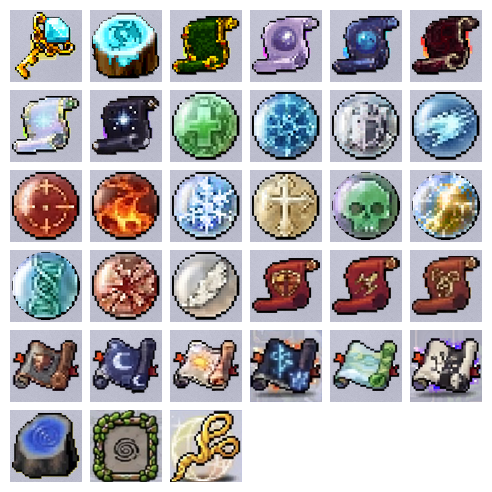
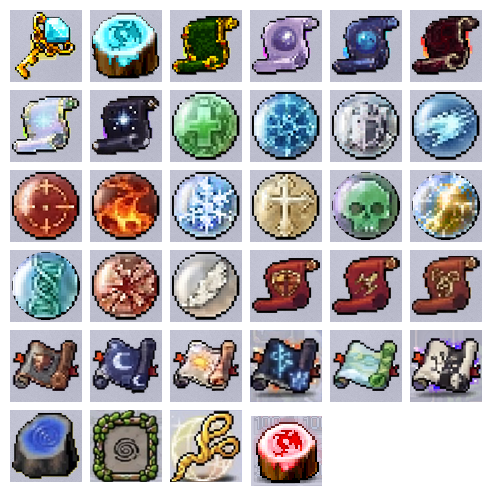
新石頭icon更新

Changed region(s): [[0.4878, 0.8232, 0.6707, 1.0]]

diff --git a/wiki/data/v0.11.0/currency.js b/wiki/data/v0.11.0/currency.js
@@ -1,2 +1,2 @@
 /* 內容同 currency.json（tools/check_data.py 自動產生），請勿手動修改 */
-window.LOOTANIA_CURRENCY = {"schema":1,"gameVersion":"LOOTANIA Beta v 0.11.0","updatedAt":"2026-10-27","items":[{"id":"cur-0001","name":"符文鑰匙","type":"鑰匙","description":"用於解鎖技能的最後一格符文欄位，每支符文鑰匙可以解鎖一格。","iconIndex":0,"source":"怪物掉落（40等以上）","note":""},{"id":"cur-0002","name":"瞬移之石(維多利亞島)","type":"瞬移之石","description":"開啟世界地圖，於地圖上選擇目的地後即可消耗瞬移之石進行傳送。\n僅能傳送到維多利亞島（含奇幻村、黃金海岸）範圍內的地圖。","iconIndex":1,"source":"怪物掉落（人物-5等級以上怪物及66級以上怪物無限制）","note":""},{"id":"cur-0003","name":"精良秘藏卷軸","type":"卷軸","description":"為普通或精良物品新增一條隨機秘藏能力。普通品階物品會先提升至精良品階。","iconIndex":2,"source":"怪物掉落","note":""},{"id":"cur-0004","name":"史詩變化卷軸","type":"卷軸","description":"將普通或精良物品變化為史詩裝備，原有的秘藏能力全部消失，重新獲得四條隨機秘藏能力。","iconIndex":3,"source":"怪物掉落","note":""},{"id":"cur-0005","name":"史詩秘藏卷軸","type":"卷軸","description":"為精良或史詩物品新增一條隨機秘藏能力。精良品階物品會先提升至史詩品階。","iconIndex":4,"source":"怪物掉落","note":""},{"id":"cur-0006","name":"禁忌卷軸","type":"卷軸","description":"受作用的物品將被腐化、不能再被其他通貨改變，並可能發生：\n新增一條禁忌能力、毫無變化、變為另一件物品，或者消失並帶走你的性命。","iconIndex":5,"source":"怪物掉落","note":""},{"id":"cur-0007","name":"輪迴卷軸","type":"卷軸","description":"使物品的一條隨機秘藏能力提升至浮動上限；若該能力已在上限，則降至浮動下限。傳說裝備無法使用。","iconIndex":6,"source":"怪物掉落","note":""},{"id":"cur-0008","name":"萬象卷軸","type":"卷軸","description":"複製一件已鑑定的裝備，完整重現其品階、基礎能力與全部秘藏能力。原件不受影響；複本為鏡像品，無法再被任何通貨改變。(僅可自製裝備)","iconIndex":7,"source":"怪物掉落","note":""},{"id":"cur-0009","name":"強力生命結晶","type":"結晶","description":"將一件精良裝備升級為史詩裝備，並新增一條指定的強力秘藏能力。\n所有防具、所有飾品、盾牌、箭袋：最大生命\n若這件裝備已具備該能力，則不能作用。","iconIndex":8,"source":"怪物掉落","note":""},{"id":"cur-0010","name":"強力魔能結晶","type":"結晶","description":"將一件精良裝備升級為史詩裝備，並新增一條指定的強力秘藏能力。\n所有防具、所有飾品、盾牌：最大魔力\n若這件裝備已具備該能力，則不能作用。","iconIndex":9,"source":"怪物掉落","note":""},{"id":"cur-0011","name":"強力防禦結晶","type":"結晶","description":"將一件精良裝備升級為史詩裝備，並新增一條指定的強力秘藏能力。\n頭盔、上衣、褲裙、套服、手套、鞋子、盾牌：裝備防禦力%\n披風、耳飾：裝備防禦力\n若這件裝備已具備該能力，則不能作用。","iconIndex":10,"source":"怪物掉落","note":""},{"id":"cur-0012","name":"強力命中結晶","type":"結晶","description":"將一件精良裝備升級為史詩裝備，並新增一條指定的強力秘藏能力。\n所有武器、箭袋、飛鏢、手套、耳飾、戒指：命中值\n頭盔：召喚物命中值\n若這件裝備已具備該能力，則不能作用。","iconIndex":11,"source":"怪物掉落","note":""},{"id":"cur-0013","name":"強力物理結晶","type":"結晶","description":"將一件精良裝備升級為史詩裝備，並新增一條指定的強力秘藏能力。\n所有武器、箭袋、飛鏢、戒指：物理傷害%\n上衣、褲裙、套服：物理減傷%\n若這件裝備已具備該能力，則不能作用。","iconIndex":12,"source":"怪物掉落","note":""},{"id":"cur-0014","name":"強力火焰結晶","type":"結晶","description":"將一件精良裝備升級為史詩裝備，並新增一條指定的強力秘藏能力。\n所有武器、箭袋、飛鏢、戒指：火焰傷害%\n所有防具、盾牌、耳飾：火焰抗性%\n若這件裝備已具備該能力，則不能作用。","iconIndex":13,"source":"怪物掉落","note":""},{"id":"cur-0015","name":"強力冰冷結晶","type":"結晶","description":"將一件精良裝備升級為史詩裝備，並新增一條指定的強力秘藏能力。\n所有武器、箭袋、飛鏢、戒指：冰冷傷害%\n所有防具、盾牌、耳飾：冰冷抗性%\n若這件裝備已具備該能力，則不能作用。","iconIndex":14,"source":"怪物掉落","note":""},{"id":"cur-0016","name":"強力神聖結晶","type":"結晶","description":"將一件精良裝備升級為史詩裝備，並新增一條指定的強力秘藏能力。\n所有武器、箭袋、飛鏢、戒指：神聖傷害%\n所有防具、盾牌、耳飾：神聖抗性%\n若這件裝備已具備該能力，則不能作用。","iconIndex":15,"source":"怪物掉落","note":""},{"id":"cur-0017","name":"強力毒素結晶","type":"結晶","description":"將一件精良裝備升級為史詩裝備，並新增一條指定的強力秘藏能力。\n所有武器、箭袋、飛鏢、戒指：毒素傷害%\n所有防具、盾牌、耳飾：毒素抗性%\n若這件裝備已具備該能力，則不能作用。","iconIndex":16,"source":"怪物掉落","note":""},{"id":"cur-0018","name":"強力閃電結晶","type":"結晶","description":"將一件精良裝備升級為史詩裝備，並新增一條指定的強力秘藏能力。\n所有武器、箭袋、飛鏢、戒指：閃電傷害%\n所有防具、盾牌、耳飾：閃電抗性%\n若這件裝備已具備該能力，則不能作用。","iconIndex":17,"source":"怪物掉落","note":""},{"id":"cur-0019","name":"強力能力結晶","type":"結晶","description":"將一件精良裝備升級為史詩裝備，並新增一條指定的強力秘藏能力。\n劍士系裝備：力量\n法師系裝備：智力\n弓箭手系裝備：敏捷\n盜賊系裝備：幸運\n全職業系裝備、盾牌、披風、耳飾、戒指：全能力\n若這件裝備已具備該能力，則不能作用。","iconIndex":18,"source":"怪物掉落","note":""},{"id":"cur-0020","name":"強力暴擊結晶","type":"結晶","description":"將一件精良裝備升級為史詩裝備，並新增一條指定的強力秘藏能力。\n近戰武器、弓弩、拳套：攻擊基礎暴擊率%\n長杖、短杖：法術基礎暴擊率%\n箭袋、飛鏢、耳飾：暴擊率增幅%\n手套：暴擊傷害%\n若這件裝備已具備該能力，則不能作用。","iconIndex":19,"source":"怪物掉落","note":""},{"id":"cur-0021","name":"強力速度結晶","type":"結晶","description":"將一件精良裝備升級為史詩裝備，並新增一條指定的強力秘藏能力。\n長杖、短杖、法師系手套：施法速度%\n其他職系手套、近戰武器、弓弩、拳套、箭袋、飛鏢：攻擊速度%   鞋子：移動速度%\n若這件裝備已具備該能力，則不能作用。","iconIndex":20,"source":"怪物掉落","note":""},{"id":"cur-0022","name":"銘鑄卷軸【防具】","type":"卷軸","description":"摧毀一件秘藏能力已滿六條的史詩防具（帽子、上衣、褲裙、套服、手套、鞋子、披風），將它的秘藏能力封入對應部位的銘鑄箴言。","iconIndex":21,"source":"怪物掉落（70等以上）","note":""},{"id":"cur-0023","name":"銘鑄卷軸【武器】","type":"卷軸","description":"摧毀一件秘藏能力已滿六條的史詩武器（含盾牌、箭矢、飛鏢），將它的秘藏能力封入對應部位的銘鑄箴言。","iconIndex":22,"source":"怪物掉落（70等以上）","note":""},{"id":"cur-0024","name":"銘鑄卷軸【飾品】","type":"卷軸","description":"摧毀一件秘藏能力已滿六條的史詩飾品（耳飾、戒指），將它的秘藏能力封入對應部位的銘鑄箴言。","iconIndex":23,"source":"怪物掉落（70等以上）","note":""},{"id":"cur-0025","name":"守護箴言","type":"箴言","description":"啟用後，下一次使用腐蝕卷軸時，階級最高（T1為最高階）的其中一條秘藏能力不會被移除。只剩一條能力時，卷軸無法使用。","iconIndex":24,"source":"怪物掉落（70等以上）","note":""},{"id":"cur-0026","name":"黃昏箴言","type":"箴言","description":"啟用後，下一次使用精良／史詩秘藏卷軸時，新增的能力必為後綴（結晶等其他通貨不觸發）。後綴已滿時，卷軸無法使用。","iconIndex":25,"source":"怪物掉落（70等以上）","note":""},{"id":"cur-0027","name":"黎明箴言","type":"箴言","description":"啟用後，下一次使用精良／史詩秘藏卷軸時，新增的能力必為前綴（結晶等其他通貨不觸發）。前綴已滿時，卷軸無法使用。","iconIndex":26,"source":"怪物掉落（70等以上）","note":""},{"id":"cur-0028","name":"天平箴言","type":"箴言","description":"啟用後，下一次使用腐蝕卷軸時，移除階級最高（T1為最高階）的其中一條秘藏能力，並在同側補上一條同階級、不同種類的能力。","iconIndex":27,"source":"怪物掉落（80等以上）","note":""},{"id":"cur-0029","name":"天工箴言","type":"箴言","description":"啟用後，下一次使用精良／史詩秘藏卷軸時，改抽兩條能力並保留階級較高（T1為最高階）的那條（結晶等其他通貨不觸發）。","iconIndex":28,"source":"怪物掉落（80等以上）","note":""},{"id":"cur-0030","name":"天擇箴言","type":"箴言","description":"啟用後，下一次使用腐蝕卷軸時，只移除階級最低（T1為最高階）的一條秘藏能力。所有能力同階級時，卷軸無法使用。","iconIndex":29,"source":"怪物掉落（80等以上）","note":""},{"id":"cur-0031","name":"瞬移之石(艾納斯大陸)","type":"瞬移之石","description":"開啟世界地圖，於地圖上選擇目的地後即可消耗瞬移之石進行傳送。僅能傳送到艾納斯大陸（天空之城、冰原雪域、魔法森林）範圍內的地圖。","iconIndex":30,"source":"怪物掉落（人物-5等級以上怪物及66級以上怪物無限制）","note":""},{"id":"cur-0032","name":"野外遺物","type":"遺物","description":"固定詞綴【元素化】：怪物命中額外造成 ?% 元素傷害","iconIndex":31,"source":"怪物掉落（人物-5等級以上怪物及66級以上怪物無限制）","note":""},{"id":"cur-0033","name":"交易剪刀","type":"交易道具","description":"與其他玩家交易時，雙方各需消耗一把。\n優先消耗交易剪刀。","iconIndex":32,"source":"怪物掉落（人物-5等級以上怪物及66級以上怪物無限制）","note":"不可交易；身上僅可有10把"},{"id":"cur-0034","name":"高級瞬移之石","type":"瞬移之石","description":"開啟世界地圖，於地圖上選擇目的地後即可消耗瞬移之石進行傳送。\n可傳送到艾納斯大陸（天空之城、冰原雪域、廢棄礦坑）及維多利亞島（含奇幻村、黃金海灘）範圍內的地圖。","source":"","note":""}]};
+window.LOOTANIA_CURRENCY = {"schema":1,"gameVersion":"LOOTANIA Beta v 0.11.0","updatedAt":"2026-10-27","items":[{"id":"cur-0001","name":"符文鑰匙","type":"鑰匙","description":"用於解鎖技能的最後一格符文欄位，每支符文鑰匙可以解鎖一格。","iconIndex":0,"source":"怪物掉落（40等以上）","note":""},{"id":"cur-0002","name":"瞬移之石(維多利亞島)","type":"瞬移之石","description":"開啟世界地圖，於地圖上選擇目的地後即可消耗瞬移之石進行傳送。\n僅能傳送到維多利亞島（含奇幻村、黃金海岸）範圍內的地圖。","iconIndex":1,"source":"怪物掉落（人物-5等級以上怪物及66級以上怪物無限制）","note":""},{"id":"cur-0003","name":"精良秘藏卷軸","type":"卷軸","description":"為普通或精良物品新增一條隨機秘藏能力。普通品階物品會先提升至精良品階。","iconIndex":2,"source":"怪物掉落","note":""},{"id":"cur-0004","name":"史詩變化卷軸","type":"卷軸","description":"將普通或精良物品變化為史詩裝備，原有的秘藏能力全部消失，重新獲得四條隨機秘藏能力。","iconIndex":3,"source":"怪物掉落","note":""},{"id":"cur-0005","name":"史詩秘藏卷軸","type":"卷軸","description":"為精良或史詩物品新增一條隨機秘藏能力。精良品階物品會先提升至史詩品階。","iconIndex":4,"source":"怪物掉落","note":""},{"id":"cur-0006","name":"禁忌卷軸","type":"卷軸","description":"受作用的物品將被腐化、不能再被其他通貨改變，並可能發生：\n新增一條禁忌能力、毫無變化、變為另一件物品，或者消失並帶走你的性命。","iconIndex":5,"source":"怪物掉落","note":""},{"id":"cur-0007","name":"輪迴卷軸","type":"卷軸","description":"使物品的一條隨機秘藏能力提升至浮動上限；若該能力已在上限，則降至浮動下限。傳說裝備無法使用。","iconIndex":6,"source":"怪物掉落","note":""},{"id":"cur-0008","name":"萬象卷軸","type":"卷軸","description":"複製一件已鑑定的裝備，完整重現其品階、基礎能力與全部秘藏能力。原件不受影響；複本為鏡像品，無法再被任何通貨改變。(僅可自製裝備)","iconIndex":7,"source":"怪物掉落","note":""},{"id":"cur-0009","name":"強力生命結晶","type":"結晶","description":"將一件精良裝備升級為史詩裝備，並新增一條指定的強力秘藏能力。\n所有防具、所有飾品、盾牌、箭袋：最大生命\n若這件裝備已具備該能力，則不能作用。","iconIndex":8,"source":"怪物掉落","note":""},{"id":"cur-0010","name":"強力魔能結晶","type":"結晶","description":"將一件精良裝備升級為史詩裝備，並新增一條指定的強力秘藏能力。\n所有防具、所有飾品、盾牌：最大魔力\n若這件裝備已具備該能力，則不能作用。","iconIndex":9,"source":"怪物掉落","note":""},{"id":"cur-0011","name":"強力防禦結晶","type":"結晶","description":"將一件精良裝備升級為史詩裝備，並新增一條指定的強力秘藏能力。\n頭盔、上衣、褲裙、套服、手套、鞋子、盾牌：裝備防禦力%\n披風、耳飾：裝備防禦力\n若這件裝備已具備該能力，則不能作用。","iconIndex":10,"source":"怪物掉落","note":""},{"id":"cur-0012","name":"強力命中結晶","type":"結晶","description":"將一件精良裝備升級為史詩裝備，並新增一條指定的強力秘藏能力。\n所有武器、箭袋、飛鏢、手套、耳飾、戒指：命中值\n頭盔：召喚物命中值\n若這件裝備已具備該能力，則不能作用。","iconIndex":11,"source":"怪物掉落","note":""},{"id":"cur-0013","name":"強力物理結晶","type":"結晶","description":"將一件精良裝備升級為史詩裝備，並新增一條指定的強力秘藏能力。\n所有武器、箭袋、飛鏢、戒指：物理傷害%\n上衣、褲裙、套服：物理減傷%\n若這件裝備已具備該能力，則不能作用。","iconIndex":12,"source":"怪物掉落","note":""},{"id":"cur-0014","name":"強力火焰結晶","type":"結晶","description":"將一件精良裝備升級為史詩裝備，並新增一條指定的強力秘藏能力。\n所有武器、箭袋、飛鏢、戒指：火焰傷害%\n所有防具、盾牌、耳飾：火焰抗性%\n若這件裝備已具備該能力，則不能作用。","iconIndex":13,"source":"怪物掉落","note":""},{"id":"cur-0015","name":"強力冰冷結晶","type":"結晶","description":"將一件精良裝備升級為史詩裝備，並新增一條指定的強力秘藏能力。\n所有武器、箭袋、飛鏢、戒指：冰冷傷害%\n所有防具、盾牌、耳飾：冰冷抗性%\n若這件裝備已具備該能力，則不能作用。","iconIndex":14,"source":"怪物掉落","note":""},{"id":"cur-0016","name":"強力神聖結晶","type":"結晶","description":"將一件精良裝備升級為史詩裝備，並新增一條指定的強力秘藏能力。\n所有武器、箭袋、飛鏢、戒指：神聖傷害%\n所有防具、盾牌、耳飾：神聖抗性%\n若這件裝備已具備該能力，則不能作用。","iconIndex":15,"source":"怪物掉落","note":""},{"id":"cur-0017","name":"強力毒素結晶","type":"結晶","description":"將一件精良裝備升級為史詩裝備，並新增一條指定的強力秘藏能力。\n所有武器、箭袋、飛鏢、戒指：毒素傷害%\n所有防具、盾牌、耳飾：毒素抗性%\n若這件裝備已具備該能力，則不能作用。","iconIndex":16,"source":"怪物掉落","note":""},{"id":"cur-0018","name":"強力閃電結晶","type":"結晶","description":"將一件精良裝備升級為史詩裝備，並新增一條指定的強力秘藏能力。\n所有武器、箭袋、飛鏢、戒指：閃電傷害%\n所有防具、盾牌、耳飾：閃電抗性%\n若這件裝備已具備該能力，則不能作用。","iconIndex":17,"source":"怪物掉落","note":""},{"id":"cur-0019","name":"強力能力結晶","type":"結晶","description":"將一件精良裝備升級為史詩裝備，並新增一條指定的強力秘藏能力。\n劍士系裝備：力量\n法師系裝備：智力\n弓箭手系裝備：敏捷\n盜賊系裝備：幸運\n全職業系裝備、盾牌、披風、耳飾、戒指：全能力\n若這件裝備已具備該能力，則不能作用。","iconIndex":18,"source":"怪物掉落","note":""},{"id":"cur-0020","name":"強力暴擊結晶","type":"結晶","description":"將一件精良裝備升級為史詩裝備，並新增一條指定的強力秘藏能力。\n近戰武器、弓弩、拳套：攻擊基礎暴擊率%\n長杖、短杖：法術基礎暴擊率%\n箭袋、飛鏢、耳飾：暴擊率增幅%\n手套：暴擊傷害%\n若這件裝備已具備該能力，則不能作用。","iconIndex":19,"source":"怪物掉落","note":""},{"id":"cur-0021","name":"強力速度結晶","type":"結晶","description":"將一件精良裝備升級為史詩裝備，並新增一條指定的強力秘藏能力。\n長杖、短杖、法師系手套：施法速度%\n其他職系手套、近戰武器、弓弩、拳套、箭袋、飛鏢：攻擊速度%   鞋子：移動速度%\n若這件裝備已具備該能力，則不能作用。","iconIndex":20,"source":"怪物掉落","note":""},{"id":"cur-0022","name":"銘鑄卷軸【防具】","type":"卷軸","description":"摧毀一件秘藏能力已滿六條的史詩防具（帽子、上衣、褲裙、套服、手套、鞋子、披風），將它的秘藏能力封入對應部位的銘鑄箴言。","iconIndex":21,"source":"怪物掉落（70等以上）","note":""},{"id":"cur-0023","name":"銘鑄卷軸【武器】","type":"卷軸","description":"摧毀一件秘藏能力已滿六條的史詩武器（含盾牌、箭矢、飛鏢），將它的秘藏能力封入對應部位的銘鑄箴言。","iconIndex":22,"source":"怪物掉落（70等以上）","note":""},{"id":"cur-0024","name":"銘鑄卷軸【飾品】","type":"卷軸","description":"摧毀一件秘藏能力已滿六條的史詩飾品（耳飾、戒指），將它的秘藏能力封入對應部位的銘鑄箴言。","iconIndex":23,"source":"怪物掉落（70等以上）","note":""},{"id":"cur-0025","name":"守護箴言","type":"箴言","description":"啟用後，下一次使用腐蝕卷軸時，階級最高（T1為最高階）的其中一條秘藏能力不會被移除。只剩一條能力時，卷軸無法使用。","iconIndex":24,"source":"怪物掉落（70等以上）","note":""},{"id":"cur-0026","name":"黃昏箴言","type":"箴言","description":"啟用後，下一次使用精良／史詩秘藏卷軸時，新增的能力必為後綴（結晶等其他通貨不觸發）。後綴已滿時，卷軸無法使用。","iconIndex":25,"source":"怪物掉落（70等以上）","note":""},{"id":"cur-0027","name":"黎明箴言","type":"箴言","description":"啟用後，下一次使用精良／史詩秘藏卷軸時，新增的能力必為前綴（結晶等其他通貨不觸發）。前綴已滿時，卷軸無法使用。","iconIndex":26,"source":"怪物掉落（70等以上）","note":""},{"id":"cur-0028","name":"天平箴言","type":"箴言","description":"啟用後，下一次使用腐蝕卷軸時，移除階級最高（T1為最高階）的其中一條秘藏能力，並在同側補上一條同階級、不同種類的能力。","iconIndex":27,"source":"怪物掉落（80等以上）","note":""},{"id":"cur-0029","name":"天工箴言","type":"箴言","description":"啟用後，下一次使用精良／史詩秘藏卷軸時，改抽兩條能力並保留階級較高（T1為最高階）的那條（結晶等其他通貨不觸發）。","iconIndex":28,"source":"怪物掉落（80等以上）","note":""},{"id":"cur-0030","name":"天擇箴言","type":"箴言","description":"啟用後，下一次使用腐蝕卷軸時，只移除階級最低（T1為最高階）的一條秘藏能力。所有能力同階級時，卷軸無法使用。","iconIndex":29,"source":"怪物掉落（80等以上）","note":""},{"id":"cur-0031","name":"瞬移之石(艾納斯大陸)","type":"瞬移之石","description":"開啟世界地圖，於地圖上選擇目的地後即可消耗瞬移之石進行傳送。僅能傳送到艾納斯大陸（天空之城、冰原雪域、魔法森林）範圍內的地圖。","iconIndex":30,"source":"怪物掉落（人物-5等級以上怪物及66級以上怪物無限制）","note":""},{"id":"cur-0032","name":"野外遺物","type":"遺物","description":"固定詞綴【元素化】：怪物命中額外造成 ?% 元素傷害","iconIndex":31,"source":"怪物掉落（人物-5等級以上怪物及66級以上怪物無限制）","note":""},{"id":"cur-0033","name":"交易剪刀","type":"交易道具","description":"與其他玩家交易時，雙方各需消耗一把。\n優先消耗交易剪刀。","iconIndex":32,"source":"怪物掉落（人物-5等級以上怪物及66級以上怪物無限制）","note":"不可交易；身上僅可有10把"},{"id":"cur-0034","name":"高級瞬移之石","type":"瞬移之石","iconIndex":33,"description":"開啟世界地圖，於地圖上選擇目的地後即可消耗瞬移之石進行傳送。\n可傳送到艾納斯大陸（天空之城、冰原雪域、廢棄礦坑）及維多利亞島（含奇幻村、黃金海灘）範圍內的地圖。","source":"","note":""}]};
